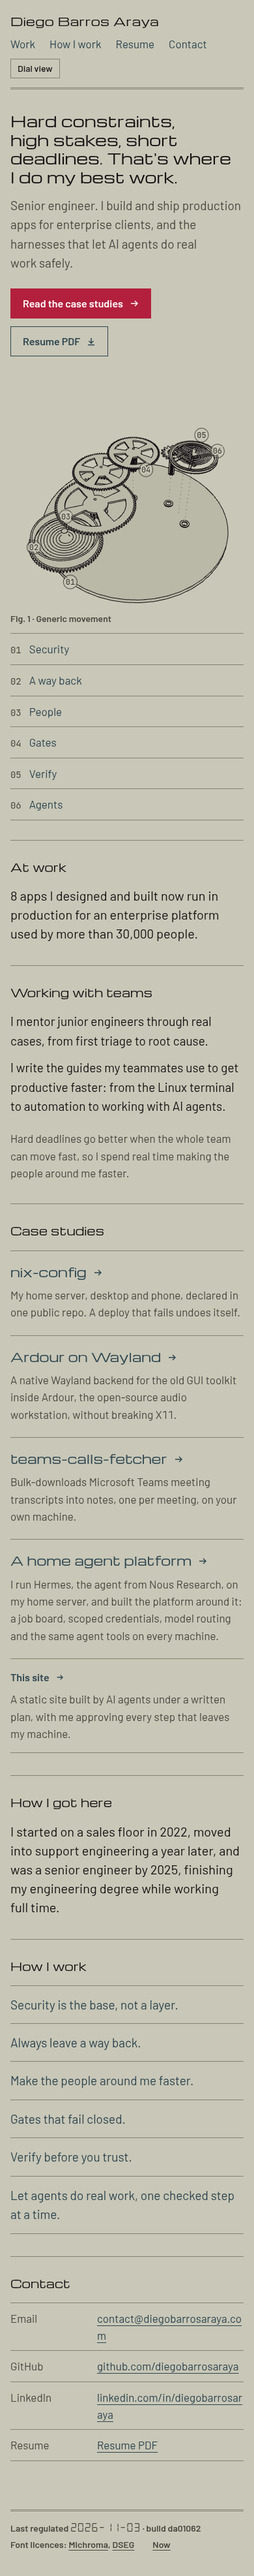
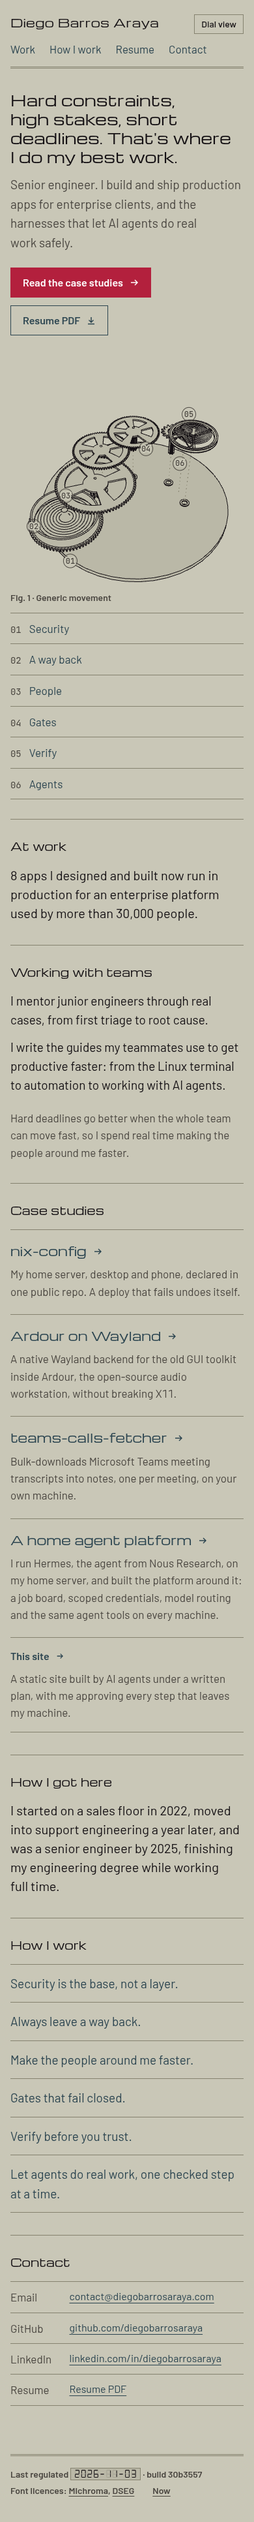
fix: finish review batch: hero balance, callouts, LCD date, phone header

diff --git a/src/scripts/movement-3d.ts b/src/scripts/movement-3d.ts
@@ -179,8 +179,11 @@ const callouts = PRINCIPLES.map((principle) => {
 // ---------- camera ----------
 const HOME_DIR = new THREE.Vector3(-150, -330, 330).normalize();
 const FOCUS_DIR = new THREE.Vector3(-0.45, -0.7, 0.8).normalize();
-// World x offset of each label from its part, so neighbouring labels do not collide.
-const LABEL_DX: Record<string, number> = { balance: 8, fork: 44 };
+// World offset of each label from its part, so neighbouring labels do not collide.
+// Verify sits above the balance and Agents below it on the open plate, away from the text column.
+const LABEL_OFFSET: Record<string, [number, number, number]> = { balance: [-10, 0, 30], fork: [0, 10, -50] };
+// Zoomed into one part only its label shows; these keep it beside the part at that scale.
+const FOCUS_OFFSET: Record<string, [number, number, number]> = { balance: [30, 0, 25], fork: [62, 0, 0] };
 const cam = { pos: new THREE.Vector3(), target: new THREE.Vector3() };
 let width = 1, height = 1, focusSite: PartId | null = null, tween: ((now: number) => void) | null = null;
 
@@ -241,7 +244,7 @@ function render() {
   const widths = callouts.map(({ a }) => a.offsetWidth); // read all before writing, so layout runs once
   callouts.forEach(({ p, a }, i) => {
     if (p.id === 'plate') v.set(-118, -60, p.g.position.z + 3); // plate edge, not its centre
-    else { box.setFromObject(p.g).getCenter(v); v.x += LABEL_DX[p.id] ?? -40; if (p.id === 'balance') v.z += 25; }
+    else { const [dx, dy, dz] = (focusSite ? FOCUS_OFFSET : LABEL_OFFSET)[p.id] ?? [-40, 0, 0]; box.setFromObject(p.g).getCenter(v); v.x += dx; v.y += dy; v.z += dz; }
     v.project(camera);
     // The label starts 11px left of x; keep its whole width inside the stage so it never reaches the text column.
     const x = Math.min(width - widths[i] + 11 - 4, Math.max(16, (v.x * .5 + .5) * width)), y = Math.min(height - 12, Math.max(12, (-v.y * .5 + .5) * height));

diff --git a/src/styles/global.css b/src/styles/global.css
@@ -26,7 +26,12 @@ a:hover { color: var(--steel-hi); }
 :focus-visible { outline: 2px solid var(--steel); outline-offset: 3px; }
 .mono { font-family: var(--font-mono); font-size: .82em; letter-spacing: 0; }
 .label { font: 600 14px/1.2 var(--font-label); }
-.seg { font: 400 .9em/1 var(--font-seg); letter-spacing: .04em; }
+/* An LCD readout: unlit 8s sit behind the lit digits, so the blank segments read as part of the display. */
+.seg {
+  position: relative; display: inline-block; font: 400 11px/1 var(--font-seg); letter-spacing: .06em;
+  padding: 3px 5px; background: var(--plate); border: 1px solid var(--hair); color: var(--ink);
+}
+.seg::before { content: attr(data-ghost); position: absolute; inset: 3px 5px; opacity: .12; }
 .sheet { max-width: 1240px; margin: 0 auto; padding: 0 28px; }
 
 @media (max-width: 880px) { .sheet { padding: 0 16px; } }
